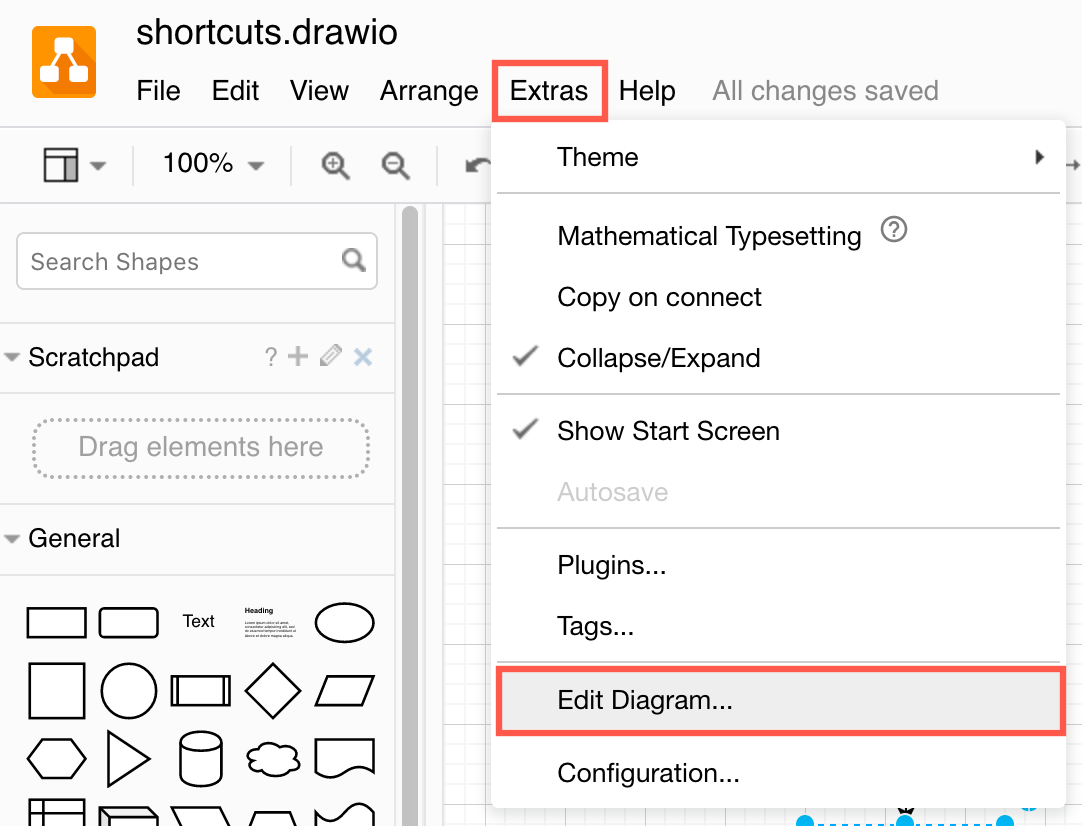
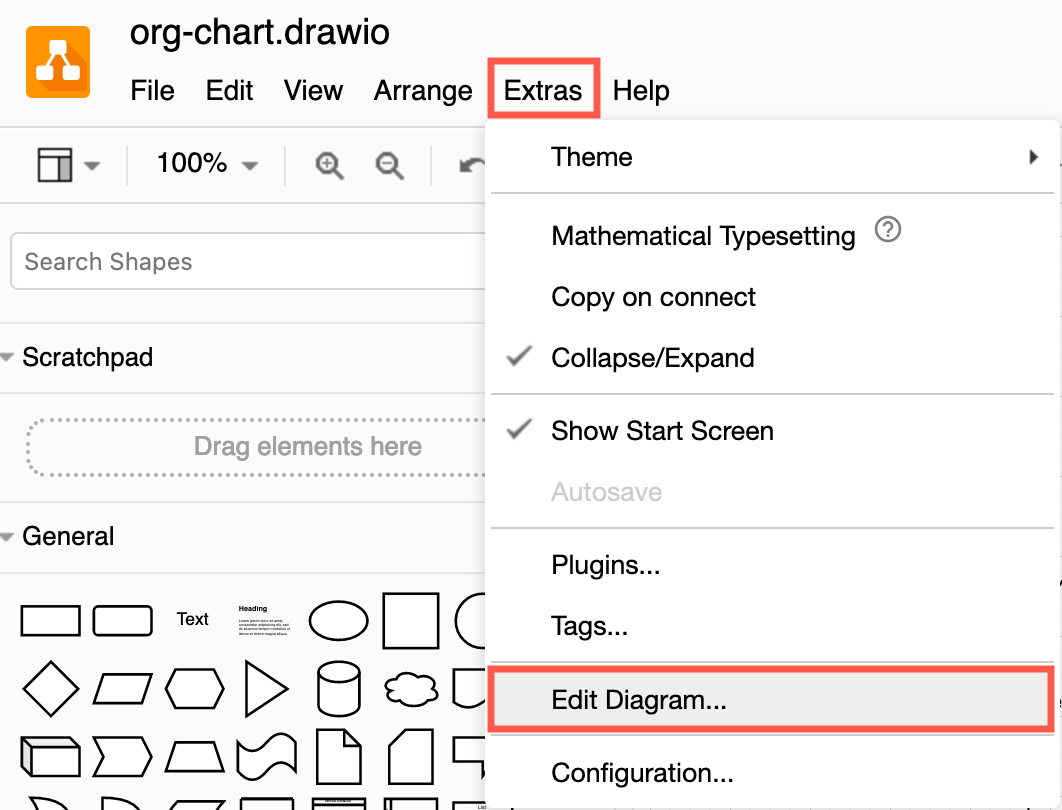
FAQs

diff --git a/doc/faq/tooltips.md b/doc/faq/tooltips.md
@@ -1,0 +1,45 @@
+---
+title: Add and delete tooltips on shapes
+layout: page
+faq: true
+categories: [features,shapes]
+---
+
+Each shape and connector in a diagram can contain [metadata or custom properties](/doc/faq/shape-metadata.html) - extra information about those shapes.
+
+A tooltip is a predefined shape property which appears when you hover over the shape or connector on the drawing canvas, or in the lightbox when viewing a [published diagram](/blog/publish-link.html). 
+<br /><img src="/assets/img/blog/tooltip-hover-editor.png" style="width=100%;max-width:400px;height:auto;" alt="Hover over a shape in the diagrams.net editor to see its tooltip"> 
+
+You can add a tooltip to a shape or connector via the menu, or by editing the shape properties. 
+
+**Add a tooltip via the menu**
+
+1. Select the shape or connector.
+2. Select _Edit > Edit Tooltip_, or press ``Alt+Shift+T``.
+<br /><img src="/assets/img/blog/edit-tooltip-menu.png" style="width=100%;max-width:300px;height:auto;" alt="Select the shape or connector and click Edit > Edit Tooltip to add a tooltip">
+3. Enter the tooltip in the text field of the _Edit Tooltip_ dialog, then click _Apply_. 
+<br /><img src="/assets/img/blog/edit-tooltip-dialog.png" style="width=100%;max-width:200px;height:auto;" alt="Select the shape or connector and click Edit > Edit Tooltip to add a tooltip">
+
+Now, when you hover over the shape in the diagrams.net editor or lightbox, you'll see the tooltip appear just below the mouse cursor. 
+<br /><img src="/assets/img/blog/tooltip-hover-lightbox.png" style="width=100%;max-width:500px;height:auto;" alt="Hover over a shape in the diagrams.net lightbox to see its tooltip">
+
+**Edit the shape properties to add or edit a tooltip**
+
+1. Right click on the shape or connector then select _Edit Data_ from the context menu. Alternatively, press ``Ctrl+M`` on Windows or ``Cmd+M`` on macOS.
+<br /><img src="/assets/img/blog/tooltip-edit-data.png" style="width=100%;max-width:200px;height:auto;" alt="Edit the shape properties via the context menu to add a tooltip">
+2. Type ``tooltip`` into the text field where it says _Enter Property Name_, then click _Add Property_.
+<br /><img src="/assets/img/blog/tooltip-add-property.png" style="width=100%;max-width:200px;height:auto;" alt="Add the tooltip shape property, if it doesn't already exist">
+3. Add your tooltip text into the tooltip text field and click _Apply_ to save your tooltip. 
+<br /><img src="/assets/img/blog/tooltip-add-property-value.png" style="width=100%;max-width:200px;height:auto;" alt="Enter the text for your tooltip in the shape properties dialog, then press apply to return to the diagrams.net editor">
+
+**Delete a tooltip**
+
+1. Edit the shape properties: select the shape or connector, then press press ``Ctrl+M`` on Windows or ``Cmd+M`` on macOS.
+2. Click the small cross to the right of the tooltip text to delete it. 
+<br /><img src="/assets/img/blog/tooltip-delete.png" style="width=100%;max-width:300px;height:auto;" alt="Edit the shape properties, then click the small cross to delete your tooltip">
+3. Click _Apply_ to return to the diagram editor.
+
+
+**Tip:** Tooltips can contain placeholders (variables), which allow you to change the text based on the context of where the shape is in the diagram (within another shape) or how it is styled. 
+
+[Learn how to work with placeholders](/blog/placeholders.html)

diff --git a/doc/faq/shape-metadata.md b/doc/faq/shape-metadata.md
@@ -1,0 +1,43 @@
+---
+title: Edit and display shape metadata
+layout: page
+faq: true
+categories: [features,shapes]
+---
+
+Each shape and connector in a diagram can contain metadata or custom properties - extra information about those shapes. 
+
+Most of a shape's custom metadata will be displayed in a tooltip when you hover over the shape or connector, unless you have [defined a ``tooltip`` shape property](/doc/faq/tooltips.html). 
+<br /><img src="/assets/img/blog/metadata-hover.png" style="width=100%;max-width:300px;height:auto;" alt="The shape metadata will be displayed as a tooltip, unless a specific tooltip has been defined in the shape properties">
+
+## Edit the shape metadata
+
+Right click on the shape or connector, and select _Edit Data_ from the context menu. Alternatively, select the shape or connector then press ``Ctrl+M`` on Windows, or ``Cmd+M`` on macOS. 
+<br /><img src="/assets/img/blog/metadata-edit.png" style="width=100%;max-width:300px;height:auto;" alt="Edit the shape properties via the context menu to change the metadata">
+
+The shape metadata is displayed in a dialog, with property names on the left, and values on the right.
+<br /><img src="/assets/img/blog/metadata-edit-shape-properties.png" style="width=100%;max-width:300px;height:auto;" alt="Edit the shape properties via the context menu to change the metadata">
+
+**Note:** All shapes and connectors have a unique identifier (ID), which cannot be changed. 
+
+* **Add a new property:** Type the name in the text field that says _Enter Property Name_ and click _Add Property_. Then enter the value for your new shape property in the text field that is highlighted. 
+* **Delete an existing property:** Click the cross to the right of the shape property that you want to delete. 
+* **Change a shape property:** Select the text of the property you want to change, enter the new value for that property. 
+
+Click _Apply_ to save your changes. 
+
+## Predefined shape properties
+
+There are some predefined types of metadata, including the [``tooltip`` shape property](/doc/faq/tooltips.html). 
+
+**Note:** When a ``tooltip`` is defined, the other metadata will not be displayed when you hover over the shape. If you want all of the metadata to be displayed when you hover over the shape, make sure that shape does not have the ``tooltip`` shape property.
+
+
+## Placeholders in metadata
+
+Shape metadata can also contain placeholders (variables), which allow you to change the text based on the context of where the shape is in the diagram (within another shape) or how it is styled. There are several [predefined placeholders](/doc/faq/predefined-placeholders.html) that you can use, such as the diagram's filename, the date or time. 
+
+[Learn how to work with placeholders](/blog/placeholders.html)
+
+**Tip:** If you would prefer to [edit the diagram source code (XML) directly](/doc/faq/diagram-source-edit.html), instead of working with metadata through dialogs, click _Extras > Edit Diagram_ to view and edit each the source code of each page in your diagram.
+

diff --git a/doc/faq/diagram-source-edit.md b/doc/faq/diagram-source-edit.md
@@ -1,0 +1,21 @@
+---
+title: Manually edit the XML source of your diagram
+layout: page
+faq: true
+categories: [Features]
+---
+
+The shapes, connectors, styles, and metadata in your diagram, and even which shape libraries are currently displayed, are all described in XML code. In diagrams.net, you can view the XML source of each page in a multi-page diagram, and edit it directly. 
+
+**Tip:** Review how to [define a new custom shape](/doc/faq/shape-complex-create-edit), to see how the shapes in your diagram are defined in XML.
+
+## Edit the diagram source code
+
+1. Select _Extras > Edit Diagram_ from the diagrams.net menu to see the XML source of your diagram, which starts and ends with the ``<mxGraphModel>`` tags.
+<br /><img src="/assets/img/blog/extras-edit-diagram.png" style="width=100%;max-width:400px;height:auto;" alt="Click Extras > Edit Diagram to view the XML source of your diagram">
+2. Edit the diagram source to add or remove elements in your diagram, [restyle shapes](/doc/faq/shape-styles.html) and connectors, modify layers, [edit shape metadata](/doc/faq/shape-metadata.html), set [global diagram options](/doc/faq/diagram-options.html), and more. You may find it easier to copy all of the XML code into an appropriate editor with contextual highlighting.
+<br /><img src="/assets/img/blog/diagram-source-edit.png" style="width=100%;max-width:400px;height:auto;" alt="Click Extras > Edit Diagram to view the XML source of your diagram">
+3. When you have finished, select how you want the changes to be saved from the drop-down list: _Replace existing drawing_, or _Open in New Window_, or _Add to Existing Drawing_ (similar to how you would [import a diagram](/doc/faq/import-diagram.html)).
+<br /><img src="/assets/img/blog/diagram-source-edit-options.png" style="width=100%;max-width:400px;height:auto;" alt="Select how you want to save the changes you have made to the diagram's XML source code">
+4. Click _OK_ to save your changes (or _Cancel_ to return to the editor without saving the changes).
+

diff --git a/doc/faq/diagram-source-save.md b/doc/faq/diagram-source-save.md
@@ -13,6 +13,7 @@ If your diagram fails to save while you are using a version of diagrams.net, you
 <br /><img src="/assets/img/blog/save-diagram-xml-source.png" style="width=100%;max-width:400px;height:auto;" alt="Copy your diagram's XML source into a text file if you ever encounter a problem with saving">
 3. Open a text editor and a new text file. Paste the copied XML source and save it.
    * If your diagram has multiple pages, you must save the XML source of each page individually.
+   * If you understand the XML, you can also [edit the diagram source](/doc/faq/diagram-source-edit.html) in this way.
 4. Rename the file to have the file extension ``.drawio`` or ``.xml``.
 
 Now you can reload the diagram editor, load the file you just created, and keep editing your diagram.

diff --git a/doc/faq/shape-complex-create-edit.md b/doc/faq/shape-complex-create-edit.md
@@ -304,3 +304,4 @@ This complex custom shape is represented by the following XML code. Copy and pas
     </foreground>
 </shape>
 ```
+**Tip:** You can also [edit the XML source code of each page in your diagram](/doc/faq/diagram-source-edit.html) manually in a similar way via _Extras > Edit Diagram_.

diff --git a/_posts/2021-05-06-sponsorship.md b/_posts/2021-05-06-sponsorship.md
@@ -4,7 +4,7 @@ author: diagrams.net
 slug: sponsorship
 date: 2021-05-06 11:04:00
 title: diagrams.net sponsorship program
-tags: [sponsoring, open source]
+tags: [sponsoring, open source, news]
 categories: [features]
 ---
 
